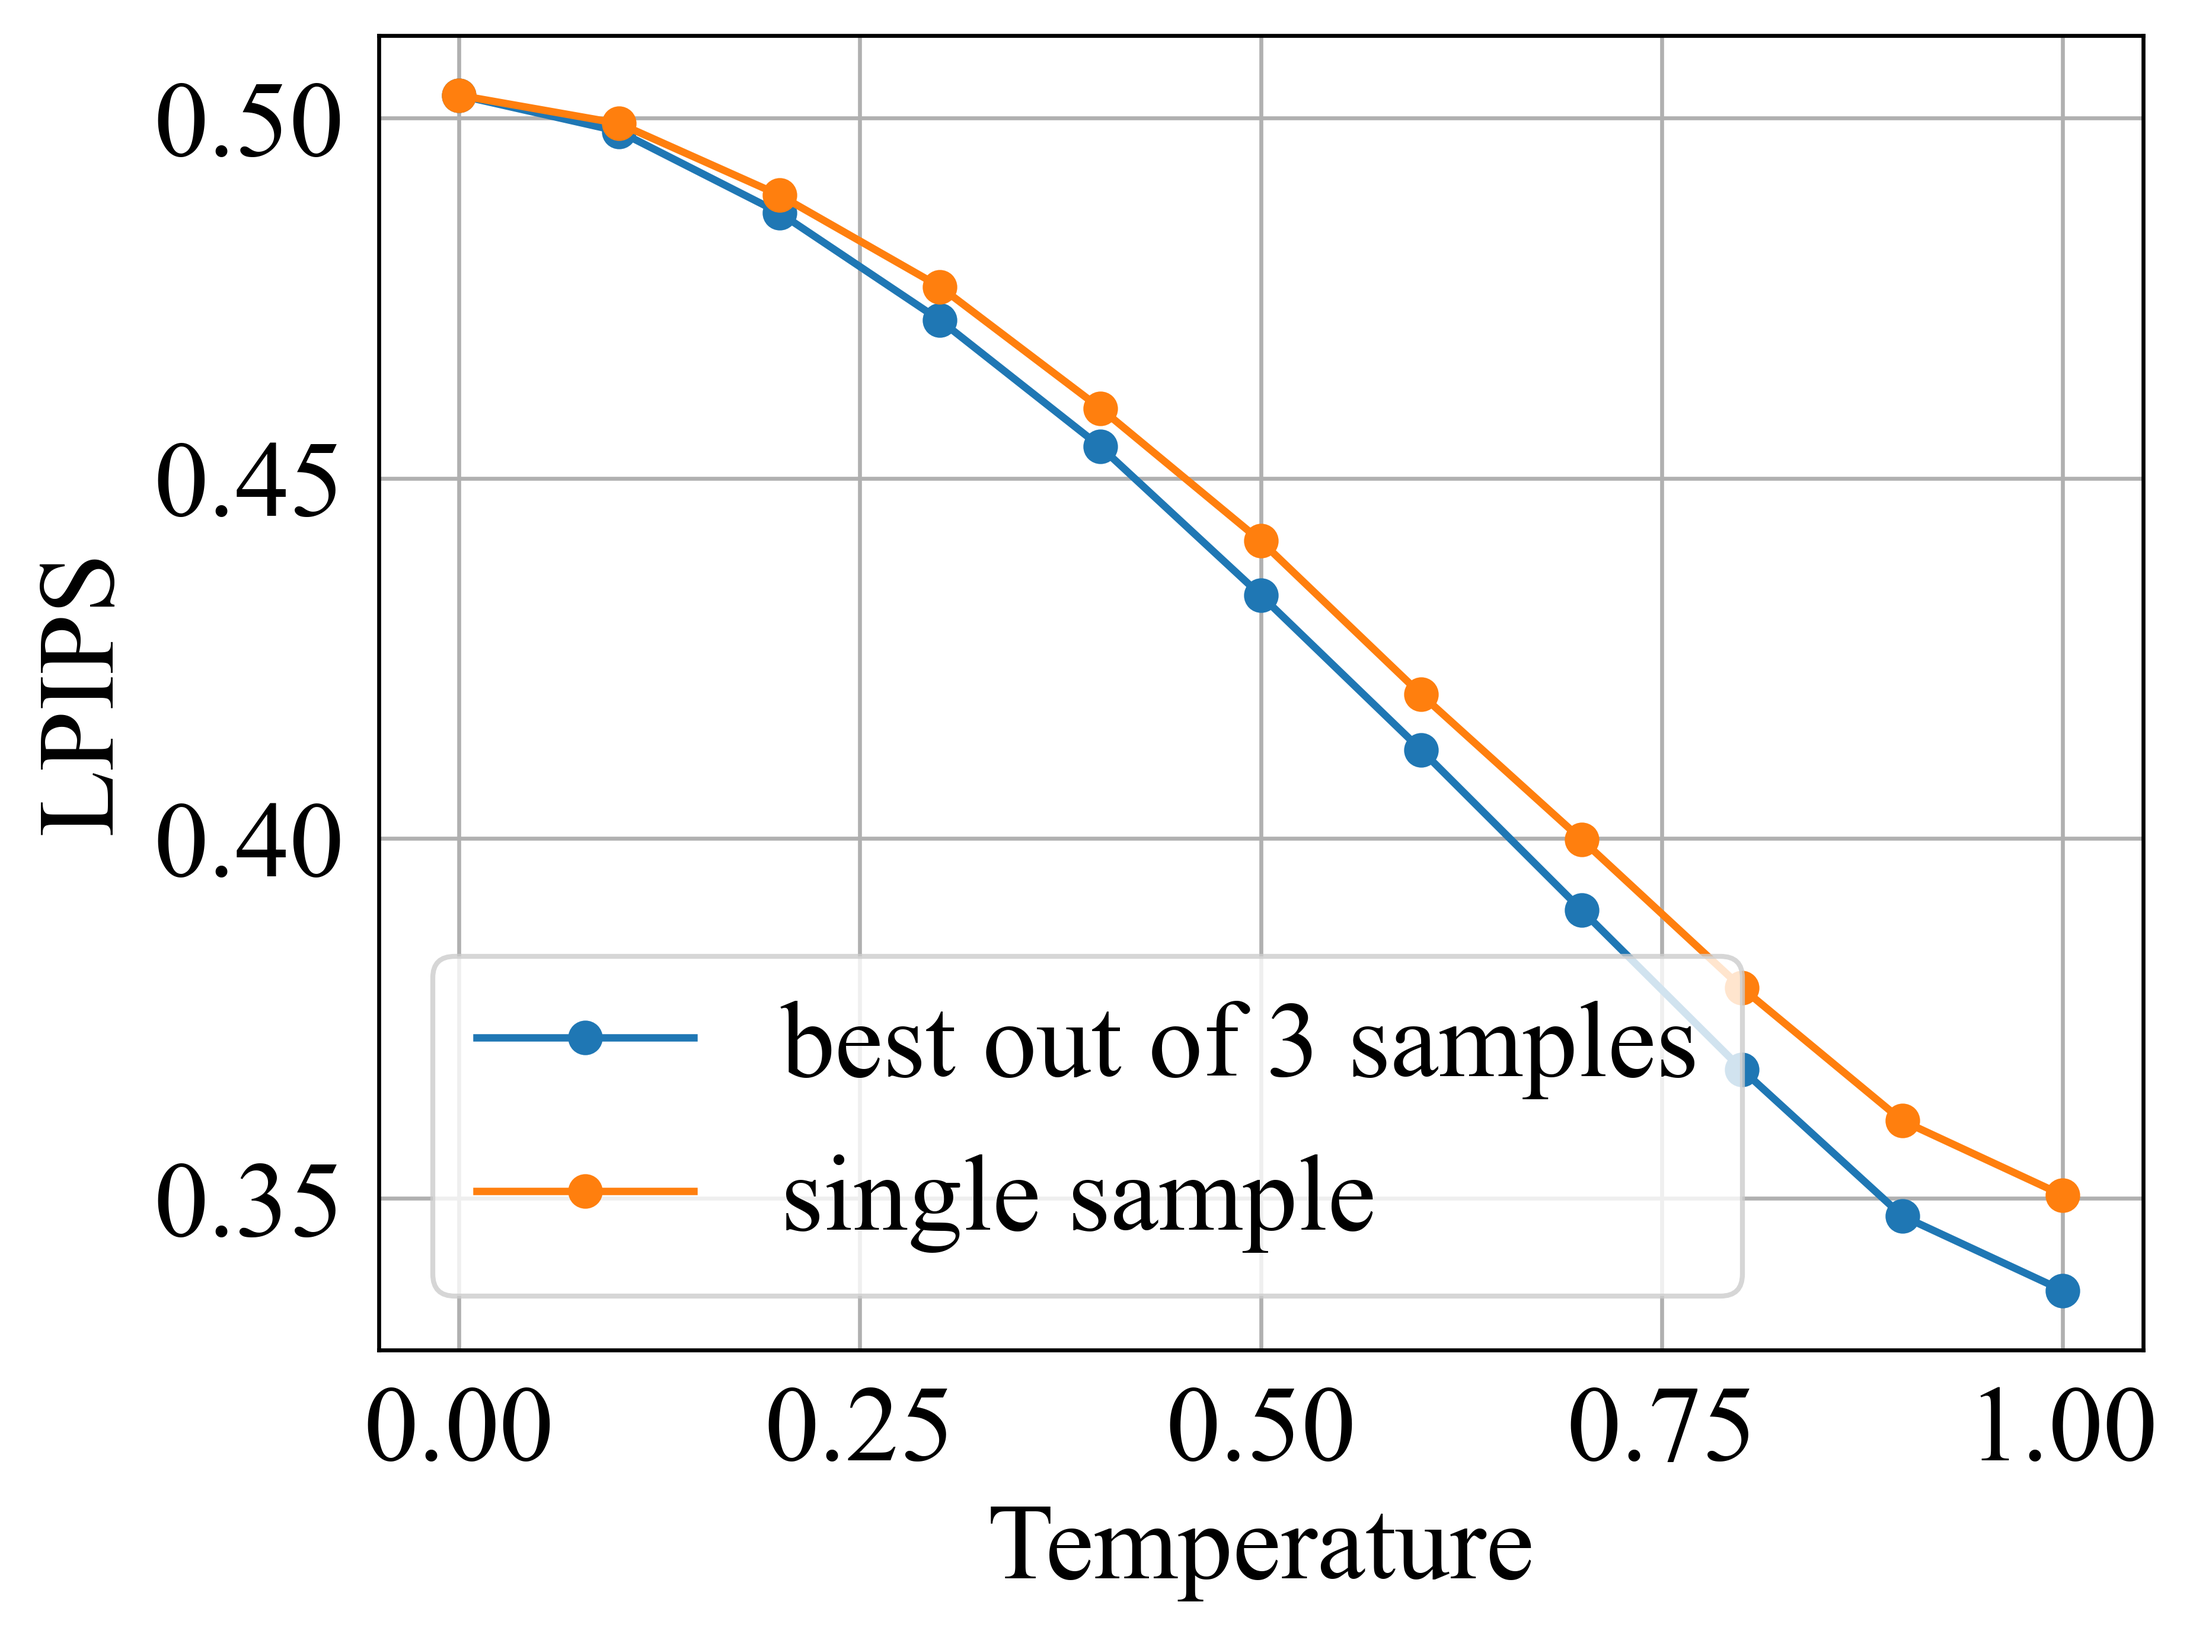
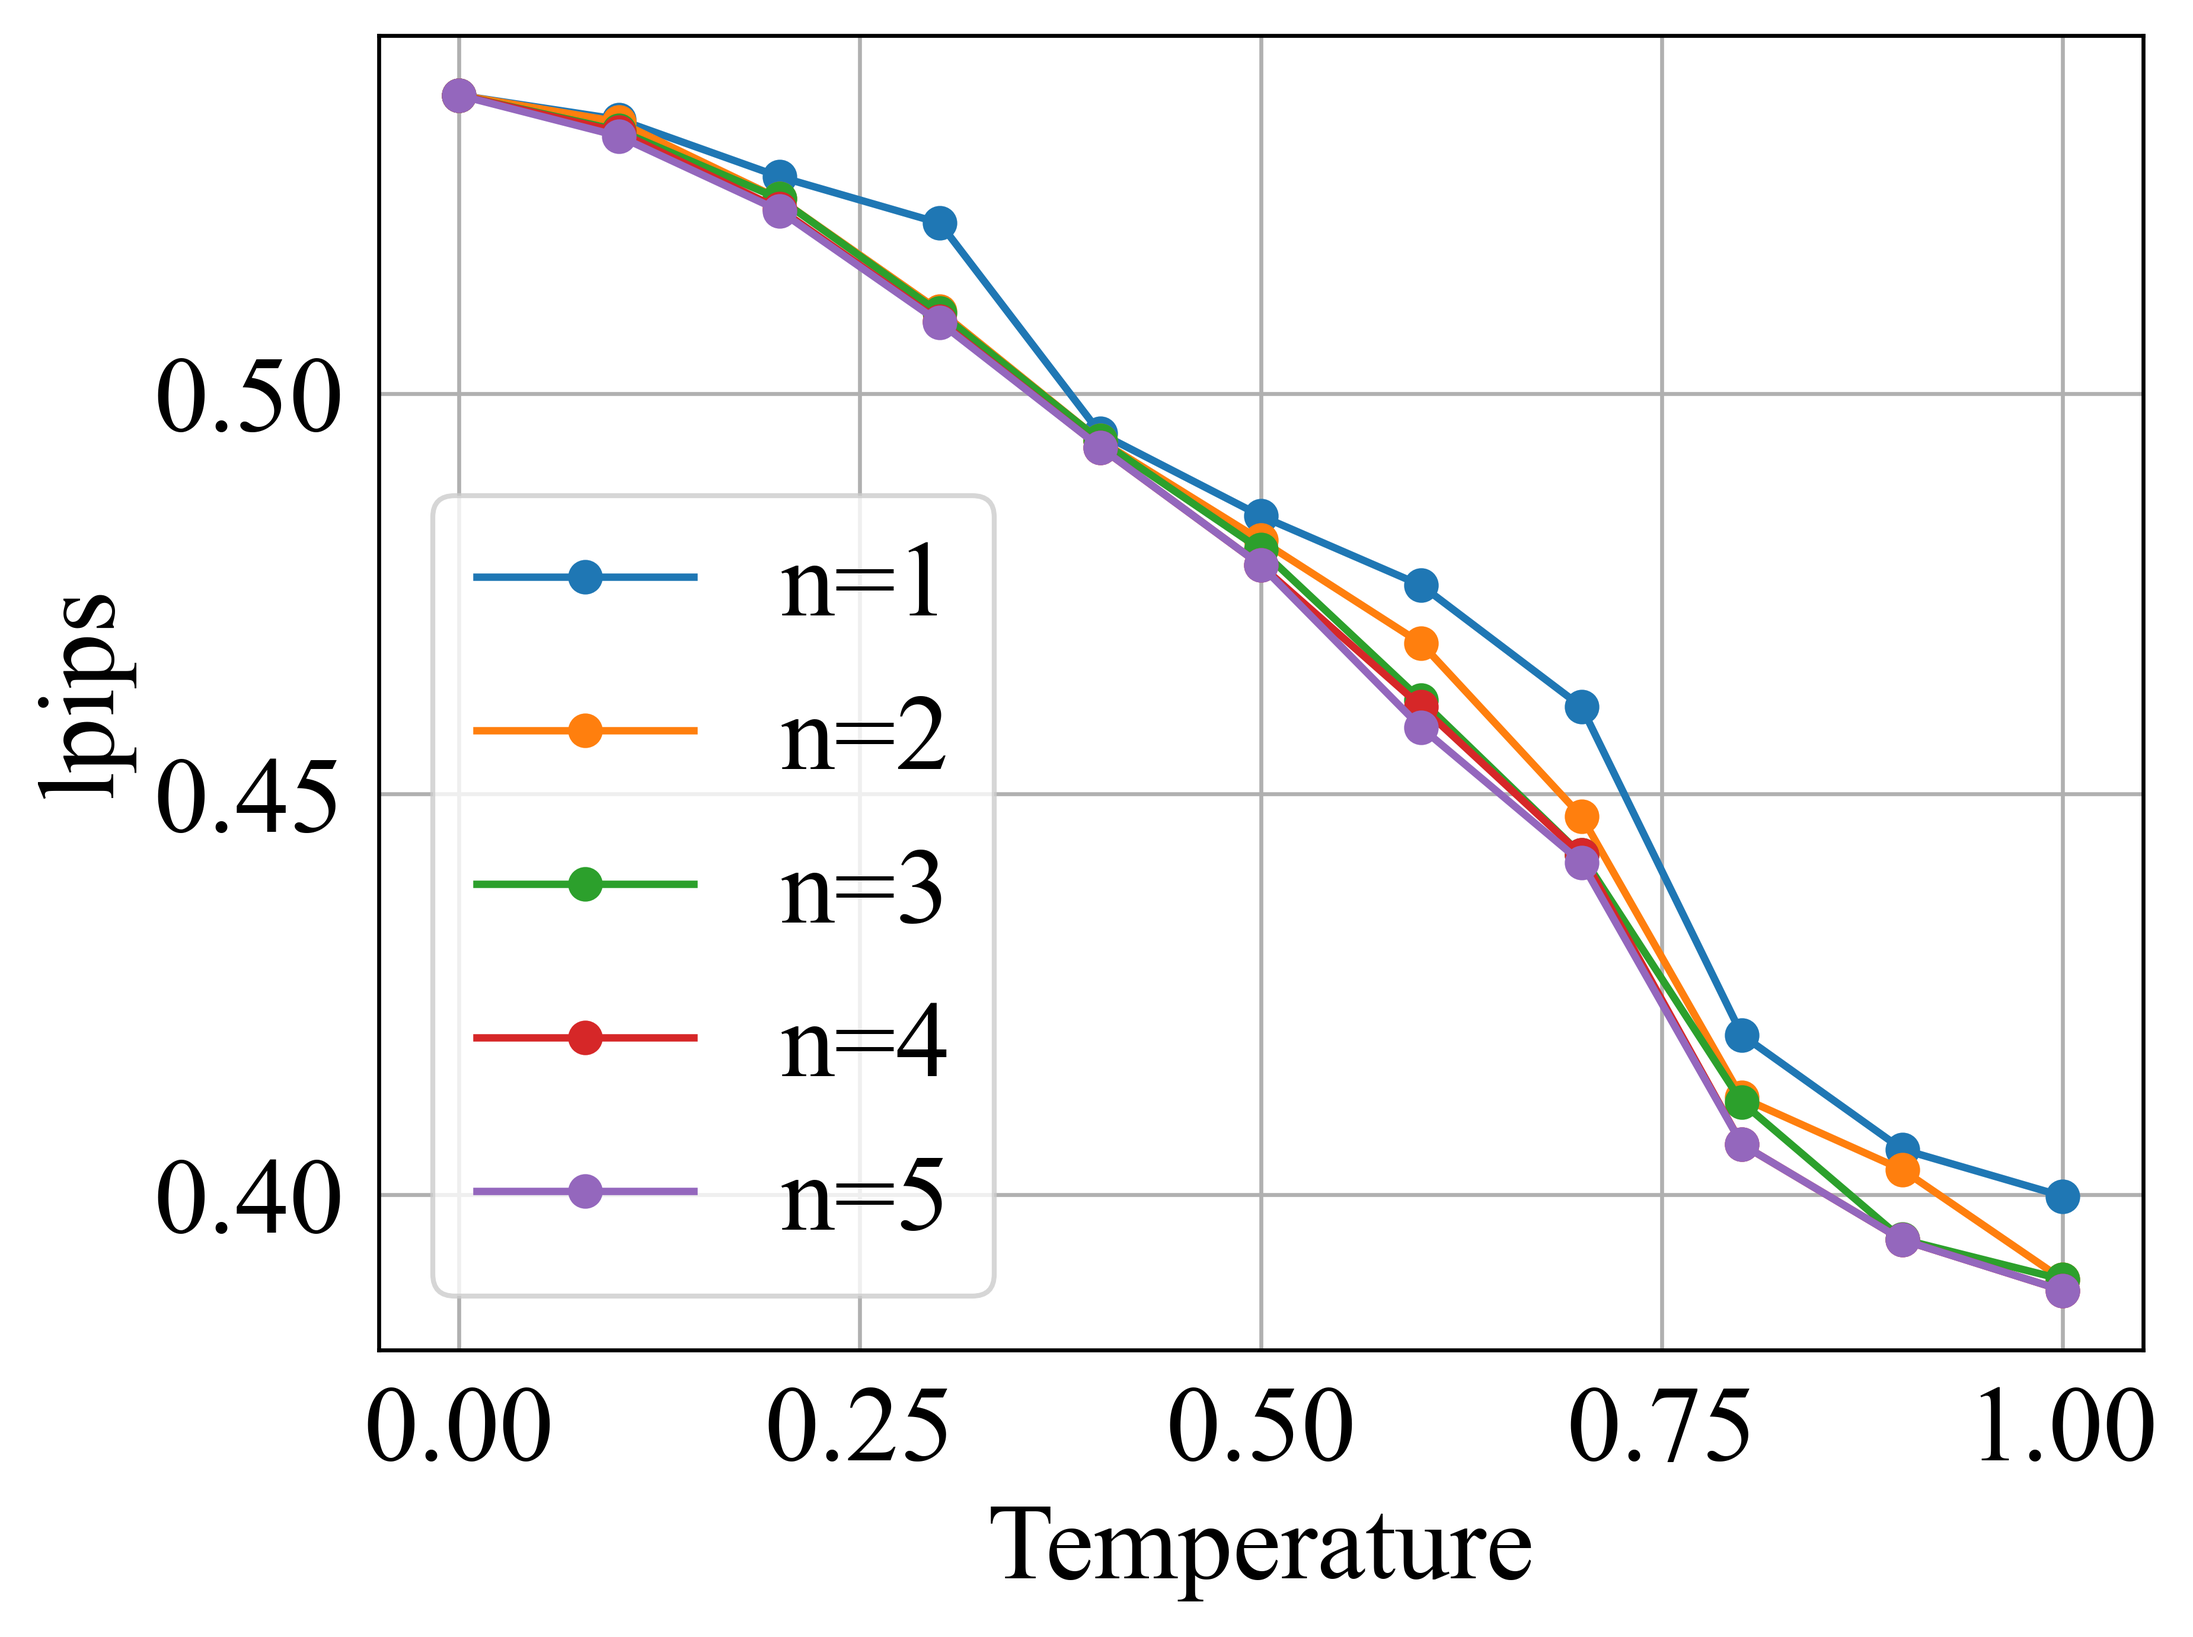
drawing graphs test passing

diff --git a/code/best_outa_n.py b/code/best_outa_n.py
@@ -13,7 +13,7 @@ import Measure
 import pandas as pd
 import matplotlib.pyplot as plt
 from tqdm.auto import tqdm
-from result_analysis import find_files, pickleRead, t, rgb, generateGraphOldvNew
+from result_analysis import find_files, pickleRead, t, rgb, generateGraphOldvNew, generateNCurves
 
 plt.rcParams["font.family"] = 'Times New Roman'
 plt.rcParams["font.size"] = 22
@@ -116,6 +116,52 @@ class Analysis:
         pd.DataFrame(avg_psnr_df).to_csv(df_averages_save_path_psnr)
         pd.DataFrame(avg_ssim_df).to_csv(df_averages_save_path_ssim)
         pd.DataFrame(avg_lpips_df).to_csv(df_averages_save_path_lpips)
+
+    def generateGraphsFromCSVs(self, df_averages_save_path_psnr,
+                               df_averages_save_path_ssim,
+                               df_averages_save_path_lpips,
+                               save_path_dict):
+        dfs = self.readAveragesDFs([df_averages_save_path_psnr, df_averages_save_path_ssim,df_averages_save_path_lpips])
+        # create legend
+        legends = [f'n={j + 1}' for j in range(len(dfs['psnr']))]
+
+        # initialize figure id
+        fig_id = 0
+        # get ys and xs from the dataframes
+        for meas in ['psnr','ssim','lpips']: # 3 for psnr, ssim and lpips
+            # construct to hold the ys and xs values for multiple curves
+            yss = []
+            xs_temp = np.linspace(0, 1, 11)
+            xss_temp = [xs_temp for i in range(10)]
+
+            # fill the constructs
+            df = dfs[meas] # get the df for a particular measure
+            for sample_size in df: # the column indices are sample_sizes
+                series = df[sample_size]
+                ys = series.to_numpy()
+                yss.append(ys)
+
+            # draw the curves
+            # temperature vs metrics curves
+            generateNCurves('Temperature', meas,
+                            save_path_dict['temperature'][meas],
+                            xss_temp,yss, fig_id, legends=legends)
+            fig_id += 1
+            # metric vs metric curves
+            for meas2 in ['psnr','ssim','lpips']:
+                if (meas =='lpips' and meas2 == 'psnr') or \
+                        (meas == 'lpips' and meas2 == 'ssim') \
+                        or (meas == 'psnr' and meas2 == 'ssim'):
+                    not_to_inv = (meas =='psnr' and meas2 == 'ssim')
+                    generateNCurves(meas, meas2,
+                                    save_path_dict[meas][meas2],
+                                    xss_temp, yss, fig_id,
+                                    legends=legends, inv=(not not_to_inv))
+                    fig_id += 1
+
+    def readAveragesDFs(self,dfs_paths):
+        return {meas: pd.read_csv(p, index_col=0) for p
+                in dfs_paths for meas in ['psnr', 'ssim','lpips']}
 
     def best_out_of_n_analysis(self, n_samples_start, n_samples_end ):
         # initialize dataframes and sums
@@ -351,6 +397,26 @@ def endToEndTest():
     analysis = Analysis(conf_path,test_dataroot_lr, test_dataroot_gt)
     analysis.best_out_of_n_analysis(1,5)
 
+def generateCurvesTest():
+    test_dataroot_lr = './data/validation/test/lr'
+    test_dataroot_gt = './data/validation/test/gt'
+    root_path = './data/validation/'
+    save_path_dict = {'temperature': {
+        'psnr': root_path+'temp-psnr.png',
+        'ssim': root_path+'temp-ssim.png',
+        'lpips':root_path + 'temp-lpips.png'
+    },'lpips': {
+        'psnr': root_path+'lpips-psnr.png',
+        'ssim': root_path + 'lpips-ssim.png'
+    },'psnr': {
+        'ssim': root_path + 'psnr-ssim.png'
+    }
+    }
+    analysis = Analysis(conf_path, test_dataroot_lr, test_dataroot_gt)
+    analysis.generateGraphsFromCSVs(df_averages_save_path_psnr,
+                                    df_averages_save_path_ssim,
+                                    df_averages_save_path_lpips,
+                                    save_path_dict)
 def runTests():
     runSaveDfsTest()
     runCalcRunningAvgTest()
@@ -361,4 +427,5 @@ if __name__ == '__main__':
     #runAnalysis()
     #runTests()
     #runCalcRunningAvgTest()
-    endToEndTest()
+    #endToEndTest()
+    generateCurvesTest()
